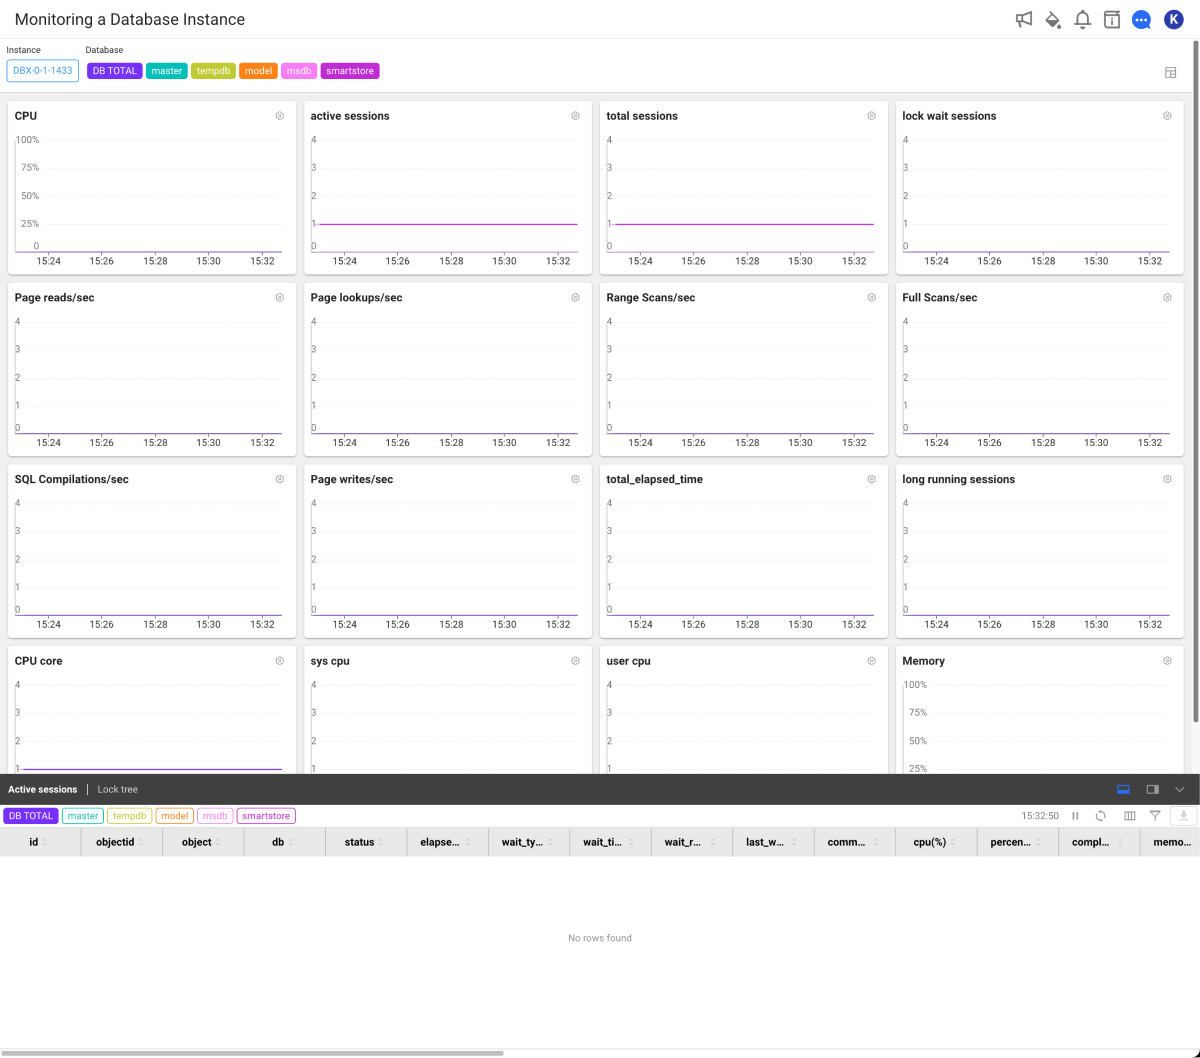
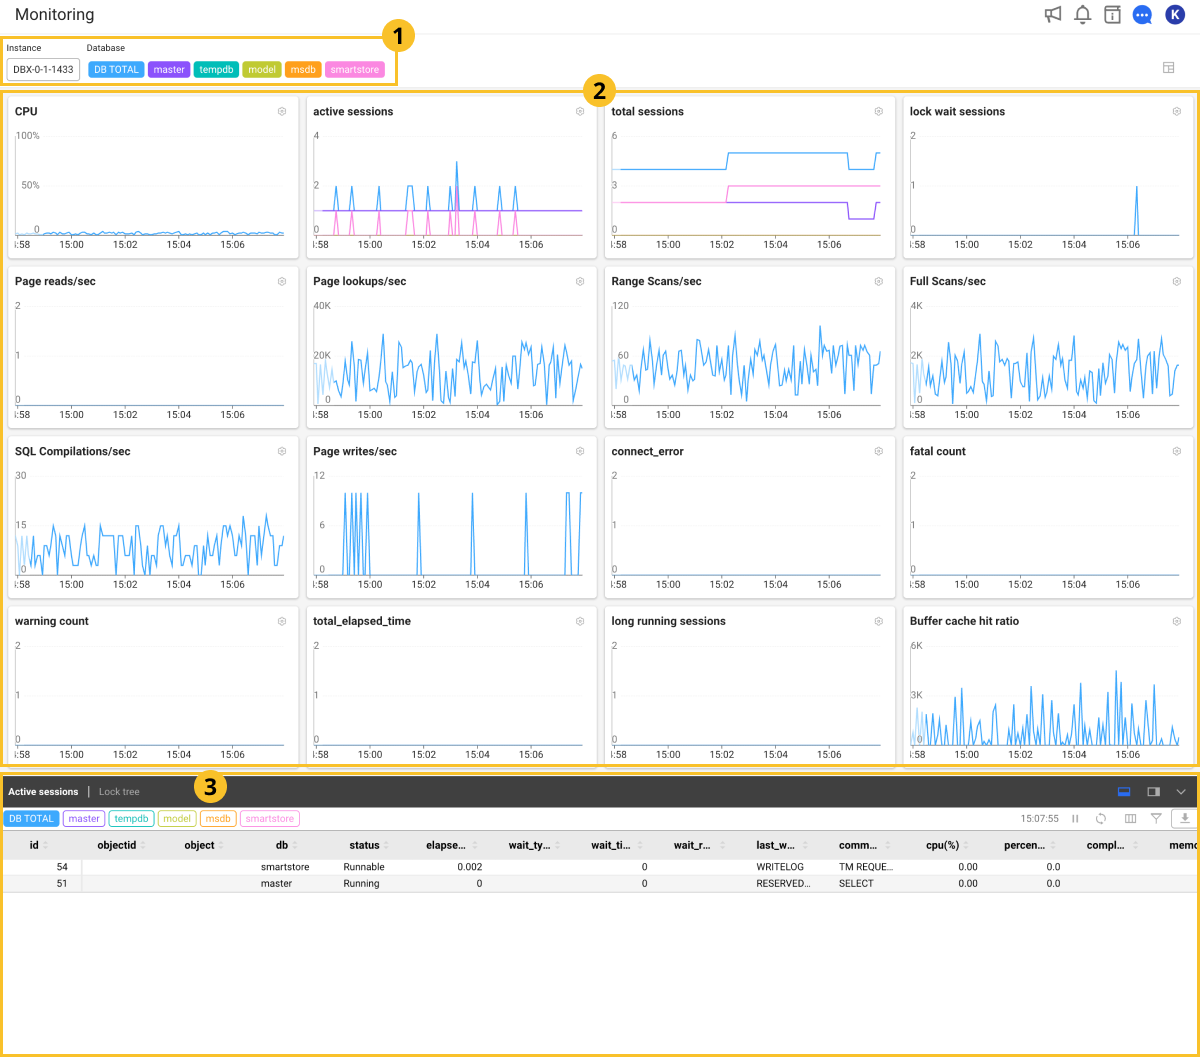
update images & sidebars

diff --git a/sidebars.js b/sidebars.js
@@ -2361,10 +2361,8 @@ const sidebars = {
             id: 'mssql/agent-settings'
           },
           items: [
-            'mssql/agent-network',
-            'mssql/agent-naming',
-            'mssql/agent-aws',
-            'mssql/agent-data',
+            'mssql/agent-dbx-settings',
+            'mssql/agent-xos-settings',
           ],
         },
         'mssql/agent-manage',
@@ -2376,7 +2374,7 @@ const sidebars = {
           items: [
             {
               type: 'category',
-              label: '실시간 DB 성능 지표 확인',
+              label: '대시보드',
               collapsible: true,
               collapsed: true,
               link: {
